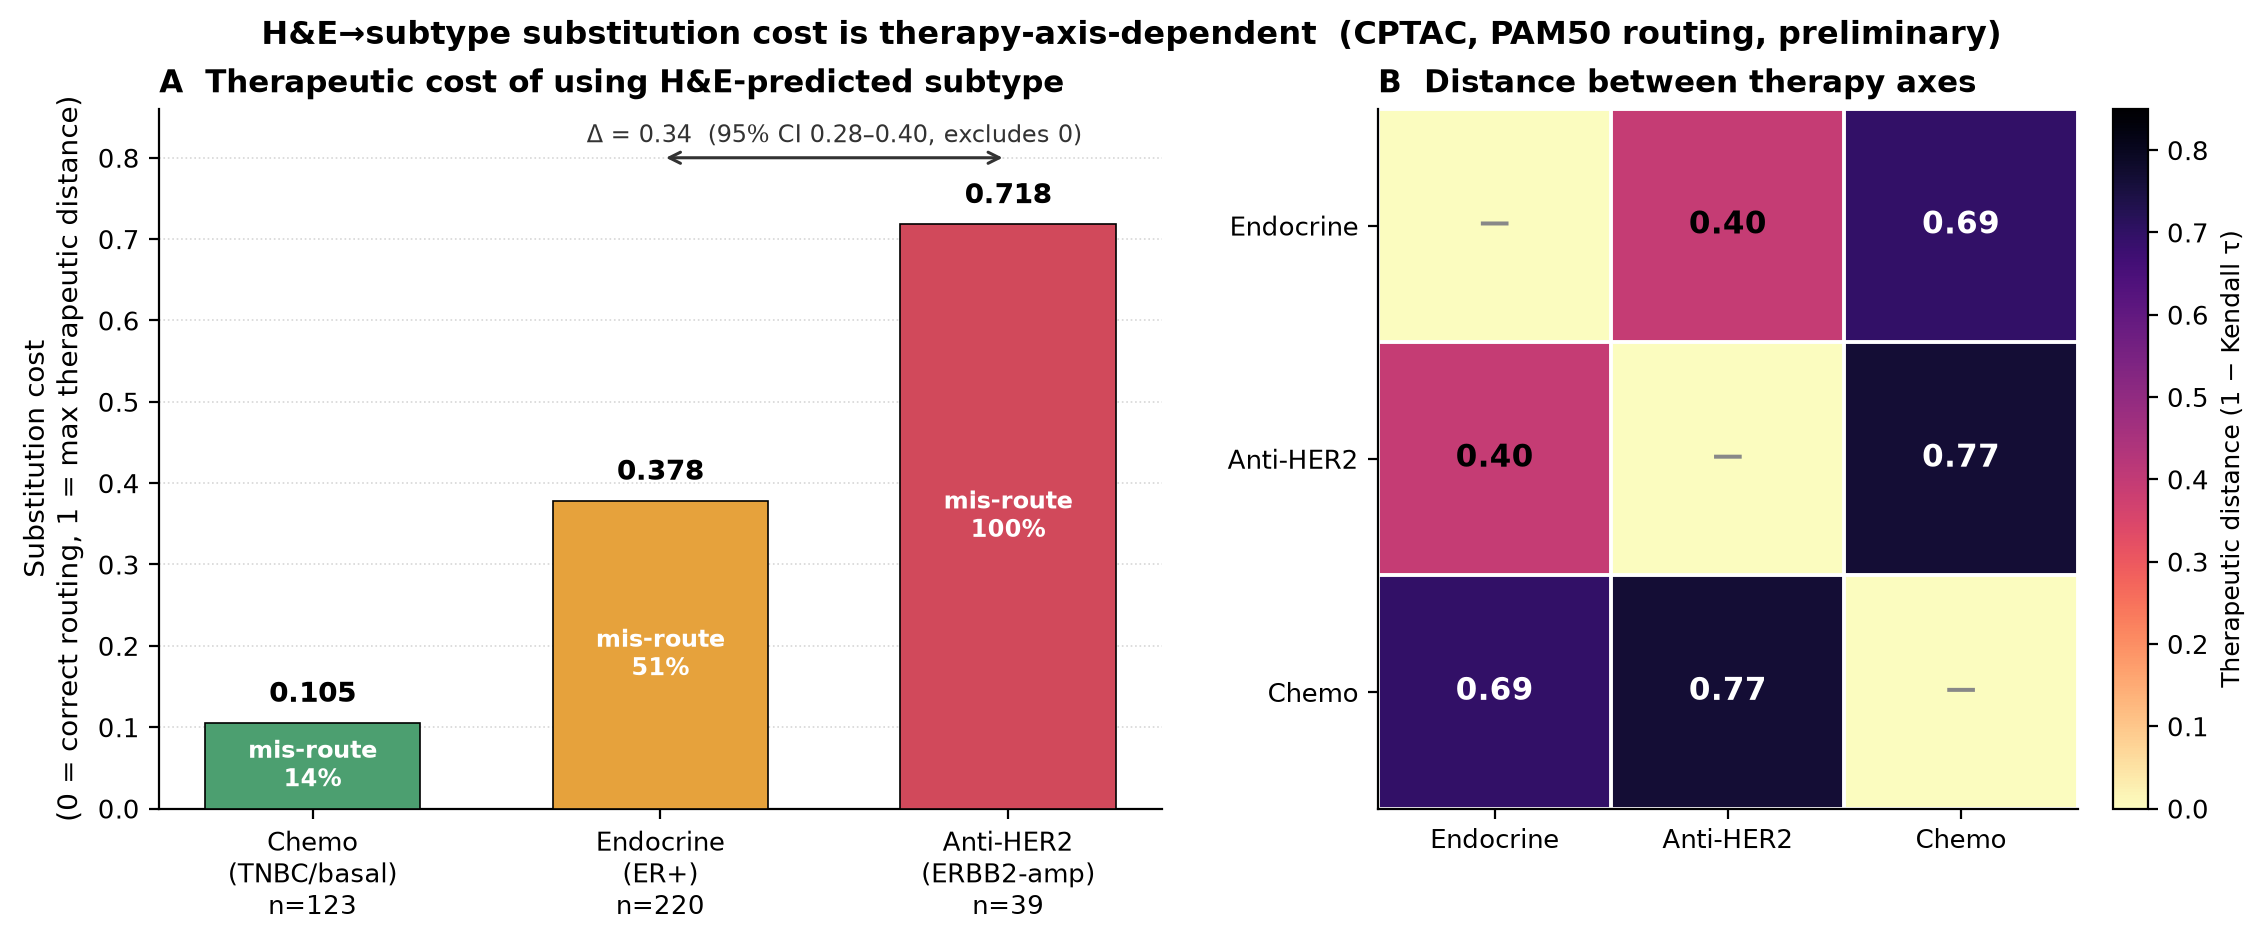
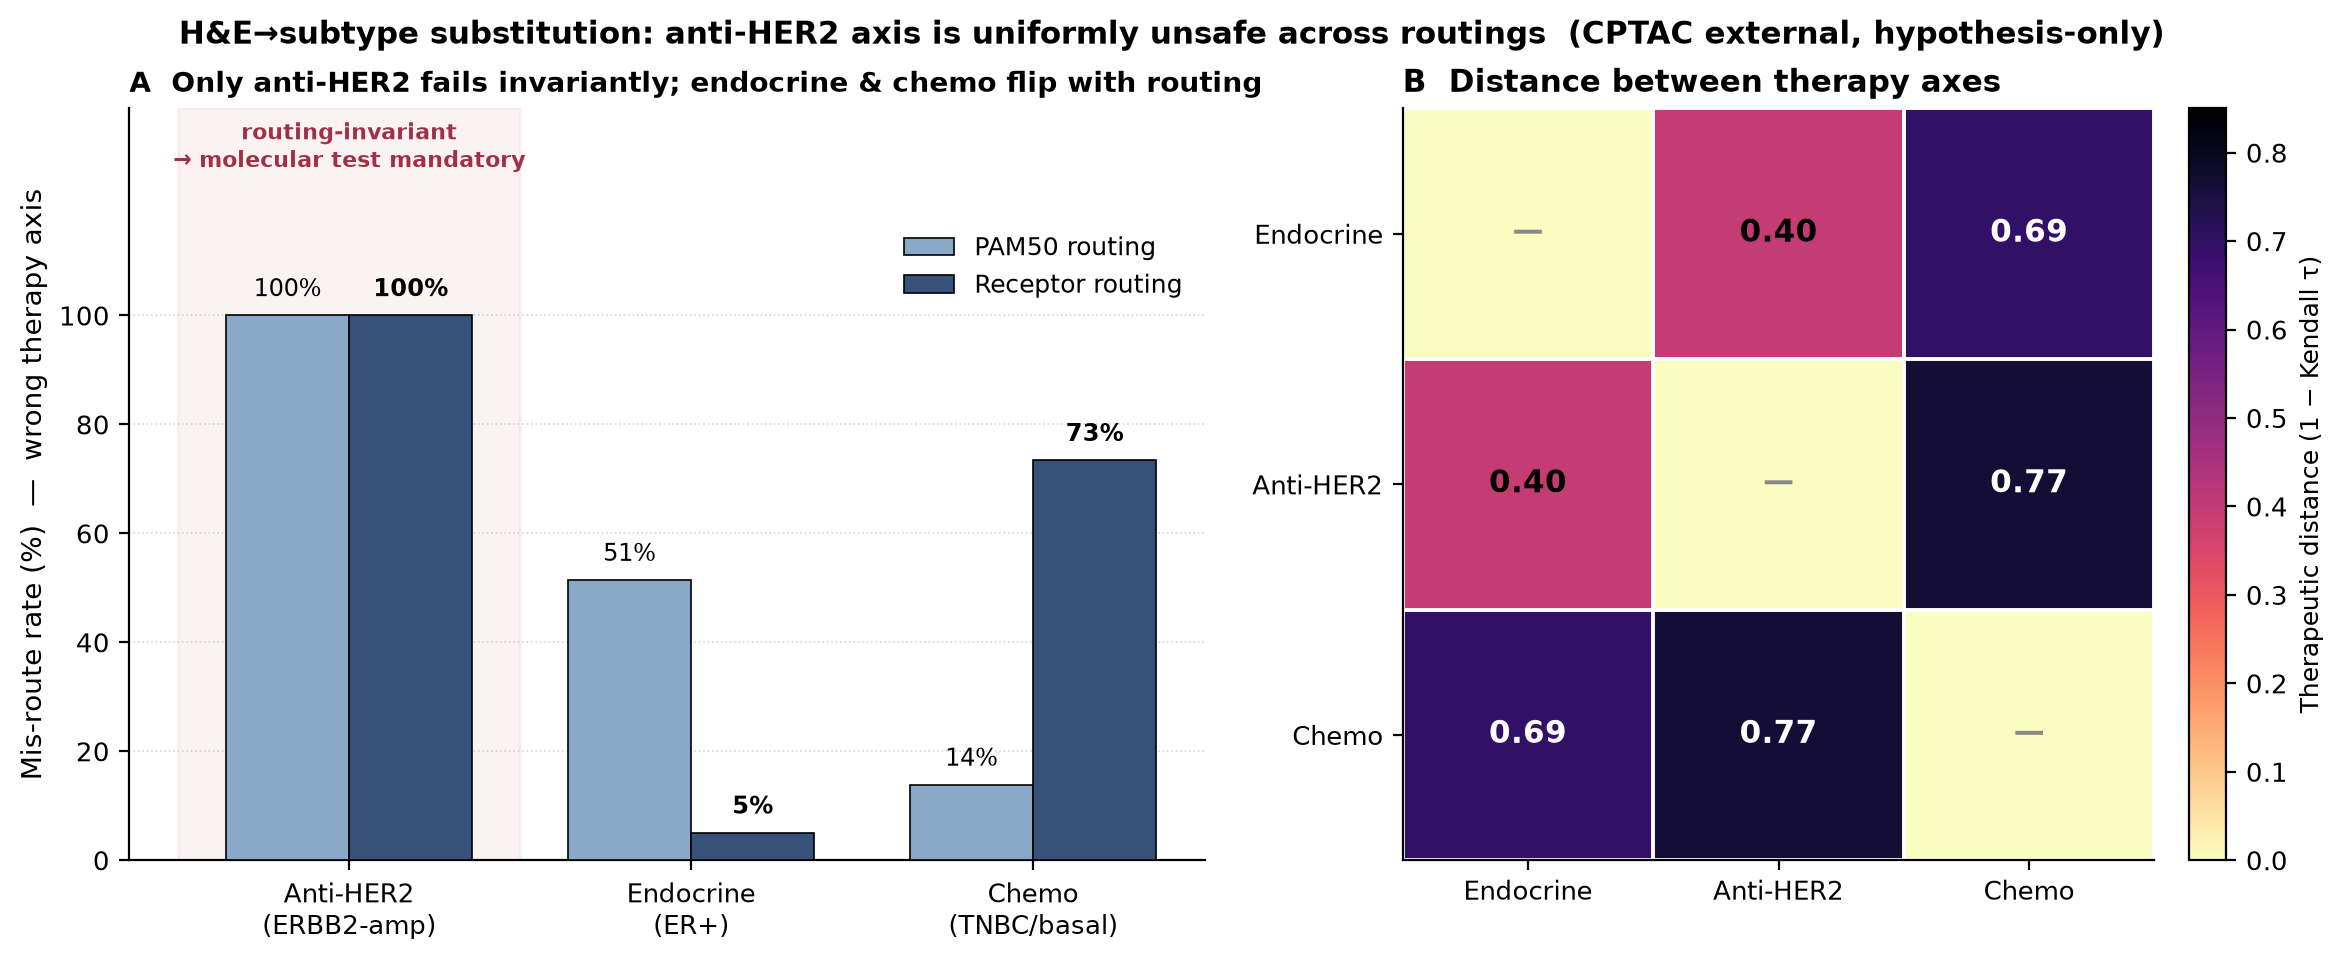
BIOP02-53 feat: cost fig 개편 — PAM50 vs receptor 라우팅 오라우팅율 비교 (발표용)
- Panel A: 라우팅 스킴별 축별 mis-route 그룹막대 → Anti-HER2 100%/100% 라우팅-불변(molecular test mandatory 강조), endocrine 51→5·chemo 14→73 반전 가시화
- Panel B: 치료축 거리 히트맵 유지
- suptitle 정직화(anti-HER2 uniformly unsafe, hypothesis-only), 텍스트 겹침 QA 통과(ylim/주석 분리)

Changed region(s): [[0.0309, 0.0, 0.989, 0.9533], [0.0, 0.1845, 0.5254, 0.9841], [0.7417, 0.7073, 0.7726, 0.7688]]

diff --git a/experiments/kkkim/20260710_cost_of_substitution/make_fig_cost.py b/experiments/kkkim/20260710_cost_of_substitution/make_fig_cost.py
@@ -1,5 +1,6 @@
 #!/usr/bin/env python3
-"""C1 예비 결과 2패널 그림: (A) 축별 치환 비용 막대  (B) 치료축 거리 히트맵.
+"""C1 결과 2패널 그림: (A) 라우팅 스킴별(PAM50 vs receptor) 축별 오라우팅율 —
+Anti-HER2만 라우팅-불변 100% / endocrine·chemo는 반전.  (B) 치료축 거리 히트맵.
 영문 라벨(한글 폰트 부재 tofu 방지), constrained_layout(겹침/넘침 방지)."""
 import json
 from pathlib import Path
@@ -7,46 +8,49 @@ import numpy as np
 import matplotlib
 matplotlib.use("Agg")
 import matplotlib.pyplot as plt
-from matplotlib.patches import FancyArrowPatch
 
 plt.rcParams.update({"font.size": 10, "axes.titlesize": 11, "axes.labelsize": 10,
                      "xtick.labelsize": 9.5, "ytick.labelsize": 9.5, "font.family": "DejaVu Sans",
                      "axes.spines.top": False, "axes.spines.right": False})
 
 HERE = Path(__file__).parent
-B = json.loads((HERE / "patient_routing_cost.json").read_text())["per_axis"]
+B_pam = json.loads((HERE / "patient_routing_cost.json").read_text())["per_axis"]
+B_rec = json.loads((HERE / "patient_routing_cost_receptor.json").read_text())["per_axis"]
 D = json.loads((HERE / "therapeutic_distance.json").read_text())["axis_pair_distance"]
 
-# ---- data (ascending cost: cheap -> catastrophic) ----
-order = ["chemo", "endocrine", "antiHER2"]
-labels = ["Chemo\n(TNBC/basal)", "Endocrine\n(ER+)", "Anti-HER2\n(ERBB2-amp)"]
-cost = [B[a]["mean_cost"] for a in order]
-mis = [B[a]["misroute_rate"] * 100 for a in order]
-n = [B[a]["n"] for a in order]
-colors = ["#4c9f70", "#e6a23c", "#d1495b"]  # green(safe) / amber / red(danger)
+# ---- data: axis order HER2 first (robust highlight) ----
+order = ["antiHER2", "endocrine", "chemo"]
+labels = ["Anti-HER2\n(ERBB2-amp)", "Endocrine\n(ER+)", "Chemo\n(TNBC/basal)"]
+mis_pam = [B_pam[a]["misroute_rate"] * 100 for a in order]
+mis_rec = [B_rec[a]["misroute_rate"] * 100 for a in order]
+n_pam = [B_pam[a]["n"] for a in order]
+n_rec = [B_rec[a]["n"] for a in order]
 
-fig, (ax1, ax2) = plt.subplots(1, 2, figsize=(11.2, 4.6), constrained_layout=True,
-                               gridspec_kw={"width_ratios": [1.15, 1.0]})
+fig, (ax1, ax2) = plt.subplots(1, 2, figsize=(11.6, 4.7), constrained_layout=True,
+                               gridspec_kw={"width_ratios": [1.25, 1.0]})
 
-# ===== Panel A: bar =====
-x = np.arange(len(order))
-bars = ax1.bar(x, cost, width=0.62, color=colors, edgecolor="black", linewidth=0.6, zorder=3)
-ax1.set_ylim(0, 0.86)
-ax1.set_ylabel("Substitution cost\n(0 = correct routing, 1 = max therapeutic distance)")
-ax1.set_xticks(x)
-ax1.set_xticklabels([f"{l}\nn={nn}" for l, nn in zip(labels, n)])
-ax1.set_title("A  Therapeutic cost of using H&E-predicted subtype", loc="left", fontweight="bold")
+# ===== Panel A: grouped bars — PAM50 vs receptor mis-route =====
+x = np.arange(len(order)); w = 0.36
+b1 = ax1.bar(x - w/2, mis_pam, w, label="PAM50 routing", color="#8aa9c9",
+             edgecolor="black", linewidth=0.6, zorder=3)
+b2 = ax1.bar(x + w/2, mis_rec, w, label="Receptor routing", color="#37527a",
+             edgecolor="black", linewidth=0.6, zorder=3)
+ax1.set_ylim(0, 138)
+ax1.set_yticks([0, 20, 40, 60, 80, 100])
+ax1.set_ylabel("Mis-route rate (%)  —  wrong therapy axis")
+ax1.set_xticks(x); ax1.set_xticklabels(labels)
+ax1.set_title("A  Only anti-HER2 fails invariantly; endocrine & chemo flip with routing",
+              loc="left", fontweight="bold", fontsize=10)
 ax1.grid(axis="y", ls=":", lw=0.6, alpha=0.5, zorder=0)
-for xi, c, m in zip(x, cost, mis):
-    ax1.text(xi, c + 0.018, f"{c:.3f}", ha="center", va="bottom", fontsize=10, fontweight="bold")
-    ax1.text(xi, c / 2, f"mis-route\n{m:.0f}%", ha="center", va="center", fontsize=8.5,
-             color="white", fontweight="bold")
-# headline contrast bracket (antiHER2 vs endocrine)
-y0 = 0.80
-ax1.annotate("", xy=(2, y0), xytext=(1, y0),
-             arrowprops=dict(arrowstyle="<->", lw=1.1, color="#333"))
-ax1.text(1.5, y0 + 0.012, "Δ = 0.34  (95% CI 0.28–0.40, excludes 0)",
-         ha="center", va="bottom", fontsize=8.6, color="#333")
+ax1.legend(loc="upper right", frameon=False, fontsize=9, bbox_to_anchor=(1.0, 0.86))
+for xi, v in zip(x - w/2, mis_pam):
+    ax1.text(xi, v + 2.5, f"{v:.0f}%", ha="center", va="bottom", fontsize=8.6)
+for xi, v in zip(x + w/2, mis_rec):
+    ax1.text(xi, v + 2.5, f"{v:.0f}%", ha="center", va="bottom", fontsize=8.6, fontweight="bold")
+# highlight HER2 as the robust (mandatory-molecular) axis — annotation kept above bar labels
+ax1.axvspan(-0.5, 0.5, color="#d1495b", alpha=0.07, zorder=0)
+ax1.text(0, 136, "routing-invariant\n→ molecular test mandatory", ha="center", va="top",
+         fontsize=8.0, color="#a13045", fontweight="bold", linespacing=1.25)
 
 # ===== Panel B: heatmap =====
 ax_order = ["endocrine", "antiHER2", "chemo"]
@@ -76,7 +80,9 @@ ax2.tick_params(which="minor", length=0)
 cb = fig.colorbar(im, ax=ax2, fraction=0.046, pad=0.04)
 cb.set_label("Therapeutic distance (1 − Kendall τ)", fontsize=9)
 
-fig.suptitle("H&E→subtype substitution cost is therapy-axis-dependent  (CPTAC, PAM50 routing, preliminary)",
-             fontsize=11.5, fontweight="bold")
+fig.suptitle("H&E→subtype substitution: anti-HER2 axis is uniformly unsafe across routings  "
+             "(CPTAC external, hypothesis-only)",
+             fontsize=11.2, fontweight="bold")
 fig.savefig(HERE / "fig_cost_of_substitution.png", dpi=200, bbox_inches="tight")
-print("wrote fig_cost_of_substitution.png", M.shape, "cost", [round(c,3) for c in cost])
+print("wrote fig_cost_of_substitution.png  mis_pam", [round(v) for v in mis_pam],
+      "mis_rec", [round(v) for v in mis_rec])